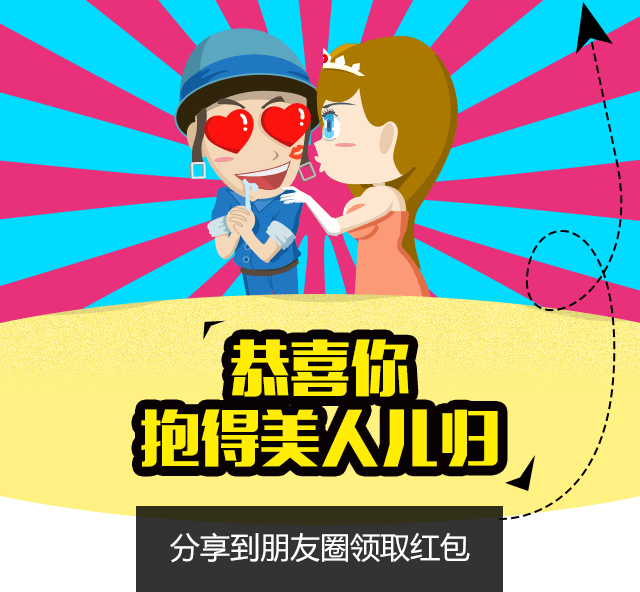
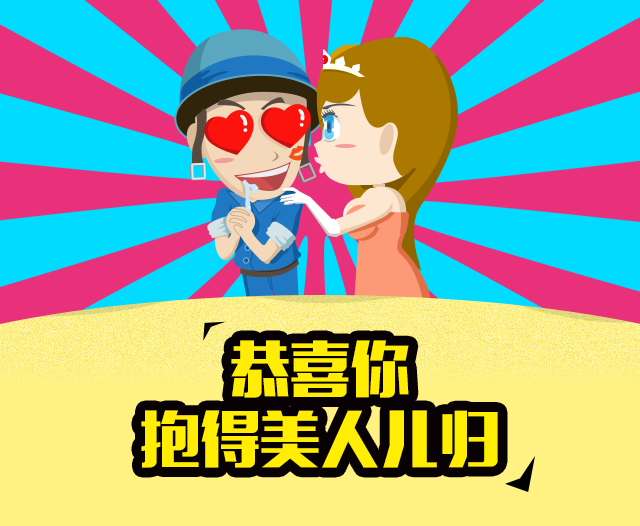
1

diff --git a/index.html b/index.html
@@ -29,7 +29,7 @@
                <div class="content_head_bg"  id="content_head_bg">
                  
                </div>
-            
+              <div class="share"  id="share" style="display:none;"><span id="share_txt" class="share_txt">分享到朋友圈赚取微信红包</span></div>
            </div>
             <div id="content_body"  class="content_body">
 
@@ -81,18 +81,16 @@
      }, false);
       
        function fn(){
-         document.getElementById("content_body_txt").style.display="none";
-     document.getElementById("content_txt").style.display='none';
-     document.getElementById("content_head_bg").style.display='none';
+            document.getElementById("content_body_txt").style.display="none";
+            document.getElementById("content_txt").style.display='none';
+            document.getElementById("content_head_bg").style.display='none';
             document.getElementById("btns").style.display="none";
             document.getElementById("content_man").style.display="none";
-           document.getElementById("content_wnman").style.display="none";
-
-          document.getElementById("content_head").style.cssText='background:url("./images/scuree_header.png") no-repeat 0 0;background-size: 100% 100%;';
-          document.getElementById("content_fooder2").style.cssText="-webkit-box-flex: 2;background: url('./images/footer_bg.png') no-repeat;background-size:100% 100%;margin-top: 5px; ";
-
-         
-      }}
+            document.getElementById("content_wnman").style.display="none";
+             document.getElementById("share").style.display="block";
+             document.getElementById("content_head").style.cssText='background:url("./images/scuree_header.png") no-repeat 0 0;background-size: 100% 100%;';
+            document.getElementById("content_fooder2").style.cssText="-webkit-box-flex: 2;background: url('./images/footer_bg.png') no-repeat;background-size:100% 100%;margin-top: 5px; ";
+  }}
        </script>
 </body>
 </html>

diff --git a/stylesheets/stylesheet.css b/stylesheets/stylesheet.css
@@ -160,6 +160,22 @@ input::-moz-focus-inner {
   background-size: 100% 100%;
   z-index: 0;
 }
+.content .content_head .share {
+  background: url('../images/wxshare.png') no-repeat;
+  background-size: 100% 100%;
+  z-index: 0;
+  height: 110%;
+  position: absolute;
+  width: 80%;
+  left: 20%;
+}
+.content .content_head .share .share_txt {
+  position: absolute;
+  top: 90%;
+  color: #fff;
+  font-size: 0.45em;
+  margin-left: 8px;
+}
 .content .content_head .content_man {
   -webkit-transition: left .5s ease .1s;
   transition: left .5s ease .1s;
